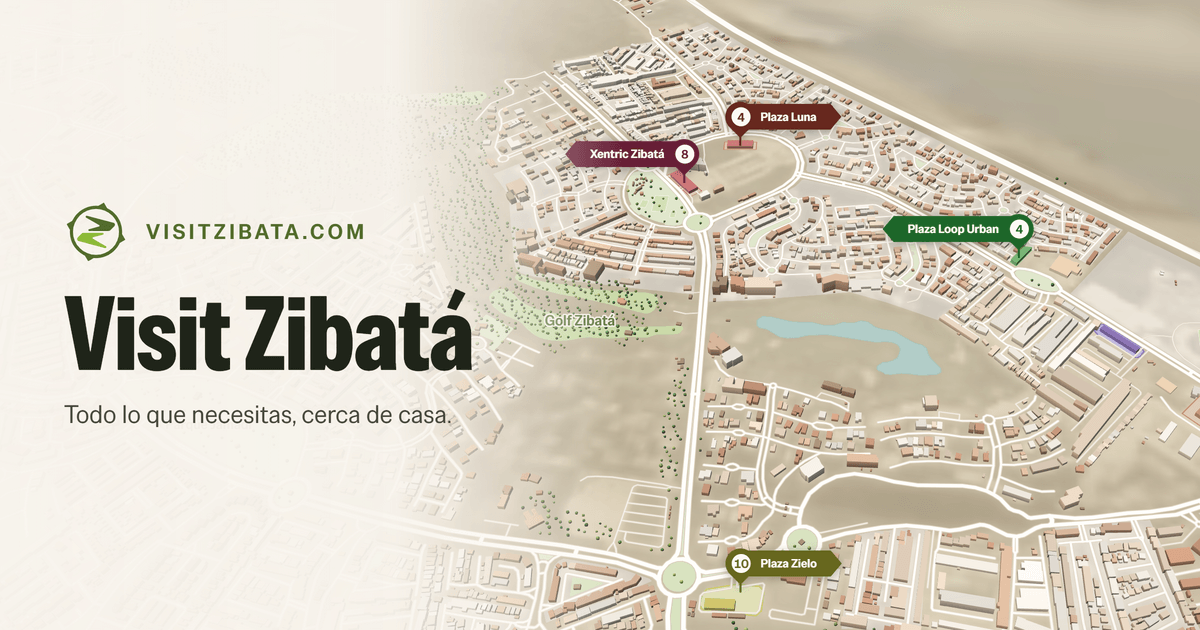
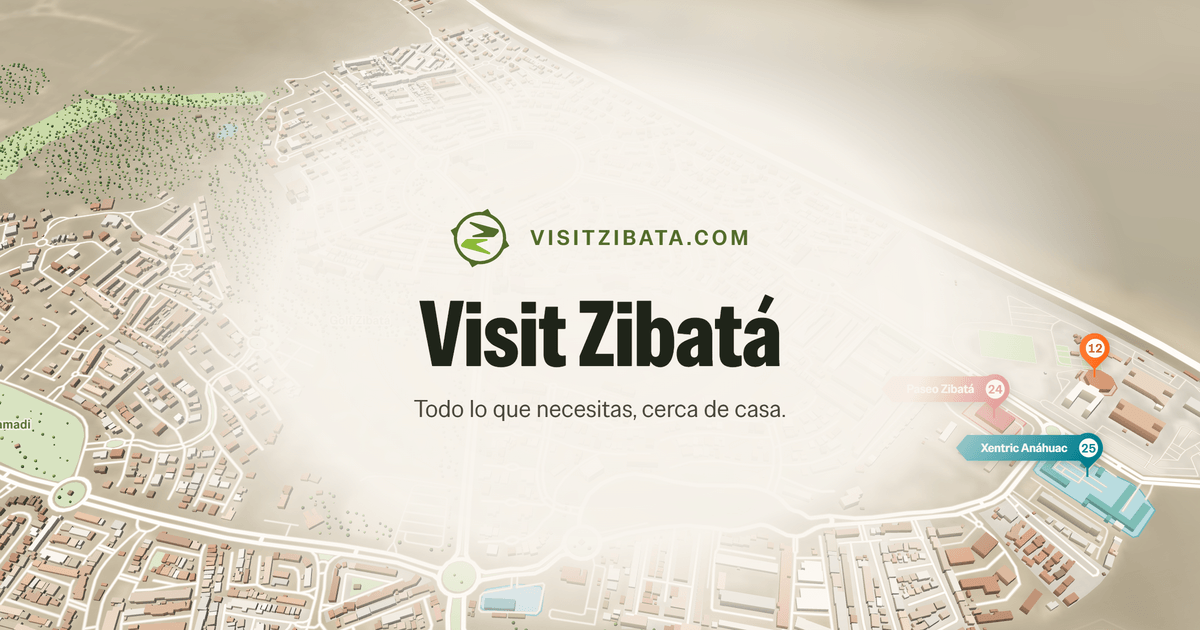
La tarjeta al compartir se centra y deja de repetir Zibatá

diff --git a/scripts/images/generate-og-image.ts b/scripts/images/generate-og-image.ts
@@ -41,16 +41,16 @@ const IMAGENES = [
   },
 ]
 
-/** Encuadre del mapa: las plazas del centro de Zibatá a la derecha, con el margen izquierdo libre para la marca. */
+/** Encuadre del mapa: el centro de Zibatá, con la marca en el centro sobre un velo de papel. */
 const CAMARA = {
   center: [-100.3225, 20.6805] as [number, number],
   zoom: 15.1,
   pitch: 42,
   bearing: -10,
-  padding: { left: 440, top: 0, right: 0, bottom: 0 },
+  padding: { left: 0, top: 0, right: 0, bottom: 0 },
 }
-/** Zona libre de la imagen: un pin que no cabe entero aquí (bajo el texto o cortado por el borde) se oculta. */
-const ZONA_LIBRE = { x0: 500, x1: 1176, y0: 24, y1: 606 }
+/** Zona que ocupa la marca: un pin que la pise se oculta, y también el que se salga de la imagen. */
+const TEXTO = { x0: 280, x1: 920, y0: 70, y1: 560 }
 /** Se captura al doble y se reduce: el texto y los trazos finos del mapa salen más nítidos. */
 const ESCALA = 2
 
@@ -98,12 +98,12 @@ try {
     content: `
       header, aside, footer, fieldset, .maplibregl-ctrl-bottom-left { display: none !important; }
       #og-card { position: fixed; inset: 0; z-index: 100; pointer-events: none;
-        background: linear-gradient(90deg, rgb(248 244 237 / 0.98) 0%, rgb(248 244 237 / 0.95) 33%, rgb(248 244 237 / 0) 52%); }
-      #og-card .inner { position: absolute; left: 64px; top: 50%; translate: 0 -50%; width: 430px; color: #1f2419; font-family: 'Special Gothic', sans-serif; }
-      #og-card .marca { display: flex; align-items: center; gap: 18px; }
+        background: radial-gradient(ellipse 58% 76% at 50% 50%, rgb(248 244 237 / 0.98) 0%, rgb(248 244 237 / 0.95) 48%, rgb(248 244 237 / 0) 76%); }
+      #og-card .inner { position: absolute; left: 50%; top: 50%; translate: -50% -50%; width: 600px; text-align: center; color: #1f2419; font-family: 'Special Gothic', sans-serif; }
+      #og-card .marca { display: flex; align-items: center; justify-content: center; gap: 18px; }
       #og-card svg { display: block; flex: none; }
-      #og-card h1 { margin: 22px 0 16px; font-family: 'Special Gothic', sans-serif; font-weight: 700; font-stretch: 75%; font-size: 104px; line-height: .92; letter-spacing: -.01em; }
-      #og-card .descripcion { margin: 0; font-size: 25px; font-weight: 400; line-height: 1.3; text-wrap: balance; color: #454a3b; }
+      #og-card h1 { margin: 22px 0 16px; font-family: 'Special Gothic', sans-serif; font-weight: 700; font-stretch: 75%; font-size: 92px; line-height: .92; letter-spacing: -.01em; }
+      #og-card .descripcion { max-width: 520px; margin: 0 auto; font-size: 24px; font-weight: 400; line-height: 1.3; text-wrap: balance; color: #454a3b; }
       #og-card .sitio { margin: 0; font-size: 21px; font-weight: 600; letter-spacing: .16em; text-transform: uppercase; color: #536c2a; }
     `,
   })
@@ -134,15 +134,19 @@ try {
   await page.waitForTimeout(3000)
   await quieto()
 
-  // Un pin que no cabe entero en la zona libre se oculta, y su tallo con él. Cada pin con nombre lleva un tallo, que es otro
-  // marcador (muy angosto) anclado en el mismo punto: solo se deja si hay una etiqueta visible justo encima.
-  const ocultos = await page.evaluate((zona) => {
+  // Un pin que se sale de la imagen o que pisa la marca se oculta, y su tallo con él. Cada pin con
+  // nombre lleva un tallo, que es otro marcador (muy angosto) anclado en el mismo punto: solo se deja
+  // si hay una etiqueta visible justo encima.
+  const ocultos = await page.evaluate((texto) => {
     const marcadores = [...document.querySelectorAll<HTMLElement>('.maplibregl-marker')]
     const rect = (el: HTMLElement) => el.getBoundingClientRect()
     const esTallo = (el: HTMLElement) => rect(el).width < 8
     const cabe = (el: HTMLElement) => {
       const r = rect(el)
-      return r.left >= zona.x0 && r.right <= zona.x1 && r.top >= zona.y0 && r.bottom <= zona.y1
+      const dentro = r.left >= 8 && r.right <= 1192 && r.top >= 8 && r.bottom <= 622
+      const tapa =
+        r.right > texto.x0 && r.left < texto.x1 && r.bottom > texto.y0 && r.top < texto.y1
+      return dentro && !tapa
     }
     const etiquetas = marcadores.filter((el) => !esTallo(el))
     for (const el of etiquetas) if (!cabe(el)) el.style.display = 'none'
@@ -157,7 +161,7 @@ try {
       if (!conEtiqueta || !cabe(tallo)) tallo.style.display = 'none'
     }
     return marcadores.filter((el) => el.style.display === 'none').length
-  }, ZONA_LIBRE)
+  }, TEXTO)
   console.log(`  pines y tallos ocultos: ${ocultos}`)
 
   // Que la tipografía sea Special Gothic y no una sustituta: si el nombre de la familia no coincide con

diff --git a/scripts/build/prerender.metadatos.test.ts b/scripts/build/prerender.metadatos.test.ts
@@ -233,20 +233,21 @@ describe('lo que se comprobó en las fichas concretas de la auditoría', () => {
 })
 
 describe('la portada', () => {
-  it('presenta la guía como un lugar para descubrir Zibatá, sin reducirla a restaurantes', () => {
+  it('presenta la guía local de Zibatá, sin repetir la marca ni reducirla a restaurantes', () => {
     for (const idioma of idiomas) {
       const portada = de(idioma, idioma === 'es' ? '/es' : '/en')
-      expect(portada.title).toContain('Visit Zibatá')
       expect(portada.title.length).toBeLessThanOrEqual(60)
       expect(portada.description.length).toBeLessThanOrEqual(160)
       for (const texto of [portada.title, portada.description]) {
         expect(texto).not.toMatch(/restaurant/i)
-        expect(texto).toContain('Zibatá')
       }
+      expect(portada.title).toContain('Zibatá')
+      expect(portada.title.match(/Zibatá/g) ?? []).toHaveLength(1)
+      expect(portada.description).not.toContain('Zibatá')
     }
     expect(de('es', '/es').title).toMatch(/guía local/i)
-    expect(de('es', '/es').description).toMatch(/negocios y lugares/)
-    expect(de('en', '/en').description).toMatch(/businesses and places/)
+    expect(de('es', '/es').description).toMatch(/negocios, lugares y planes/i)
+    expect(de('en', '/en').description).toMatch(/shops, places and plans/i)
   })
 })
 

diff --git a/tests/e2e/metadatos.spec.ts b/tests/e2e/metadatos.spec.ts
@@ -75,15 +75,15 @@ test.describe('Metadatos del HTML publicado', () => {
     }
   })
 
-  test('la portada se presenta como una guía local para descubrir Zibatá, sin reducirla a restaurantes', async ({
+  test('la portada se presenta como una guía local de Zibatá, sin reducirla a restaurantes', async ({
     request,
   }) => {
     const es = await cabecera(request, '')
-    expect(es.title[0]).toBe('Visit Zibatá · La guía local para descubrir Zibatá')
-    expect(es.description[0]).toContain('negocios y lugares de cada plaza')
+    expect(es.title[0]).toBe('La guía local de Zibatá')
+    expect(es.description[0]).toContain('Negocios, lugares y planes')
     const en = await cabecera(request, 'en')
-    expect(en.title[0]).toBe('Visit Zibatá · The local guide to discovering Zibatá')
-    expect(en.description[0]).toContain('businesses and places')
+    expect(en.title[0]).toBe('The local guide to Zibatá')
+    expect(en.description[0]).toContain('Shops, places and plans')
     for (const texto of [es.title[0], es.description[0], en.title[0], en.description[0]]) {
       expect(texto).not.toMatch(/restaurant/i)
     }

diff --git a/src/i18n/es.ts b/src/i18n/es.ts
@@ -156,12 +156,11 @@ export const es = {
    * Textos que solo salen en los metadatos de cada página prerenderizada: título de pestaña,
    * resultado de búsqueda y vista previa al compartir. Nunca se ven dentro de la aplicación.
    */
-  'seo.home.title': 'Visit Zibatá · La guía local para descubrir Zibatá',
-  'seo.imageAlt':
-    'Visit Zibatá: mapa de Zibatá con sus plazas, la guía local para descubrir todo lo que hay en la localidad.',
+  'seo.home.title': 'La guía local de Zibatá',
+  'seo.imageAlt': 'Mapa de Zibatá con sus plazas y comercios.',
   'seo.home.description':
-    'Descubre Zibatá: negocios y lugares de cada plaza, con horarios y contacto. ' +
-    'Explora la localidad y decide adónde ir.',
+    'Negocios, lugares y planes de la zona, con horarios y contacto. ' +
+    'Todo lo que necesitas para decidir adónde ir.',
   'seo.title': '{name} · Visit Zibatá',
   // Solo para los locales cuyo nombre se repite (dos sucursales de una misma cadena).
   'seo.title.zone': '{name} en {plaza} · Visit Zibatá',

diff --git a/src/i18n/en.ts b/src/i18n/en.ts
@@ -139,12 +139,11 @@ export const en = {
 
   'brand.by': 'A project by',
 
-  'seo.home.title': 'Visit Zibatá · The local guide to discovering Zibatá',
-  'seo.imageAlt':
-    'Visit Zibatá: a map of Zibatá with its plazas, the local guide to everything there is in town.',
+  'seo.home.title': 'The local guide to Zibatá',
+  'seo.imageAlt': 'Map of Zibatá with its plazas and businesses.',
   'seo.home.description':
-    'Discover Zibatá: businesses and places in each plaza, with hours, contact ' +
-    'and directions. Everything you need to decide where to go.',
+    'Shops, places and plans around the area, with hours and contact. ' +
+    'Everything you need to decide where to go.',
   'seo.title': '{name} · Visit Zibatá',
   'seo.title.zone': '{name} in {plaza} · Visit Zibatá',
   'seo.place.fallback': '{giros} at {plaza}, Zibatá. Hours, contact and directions.',
